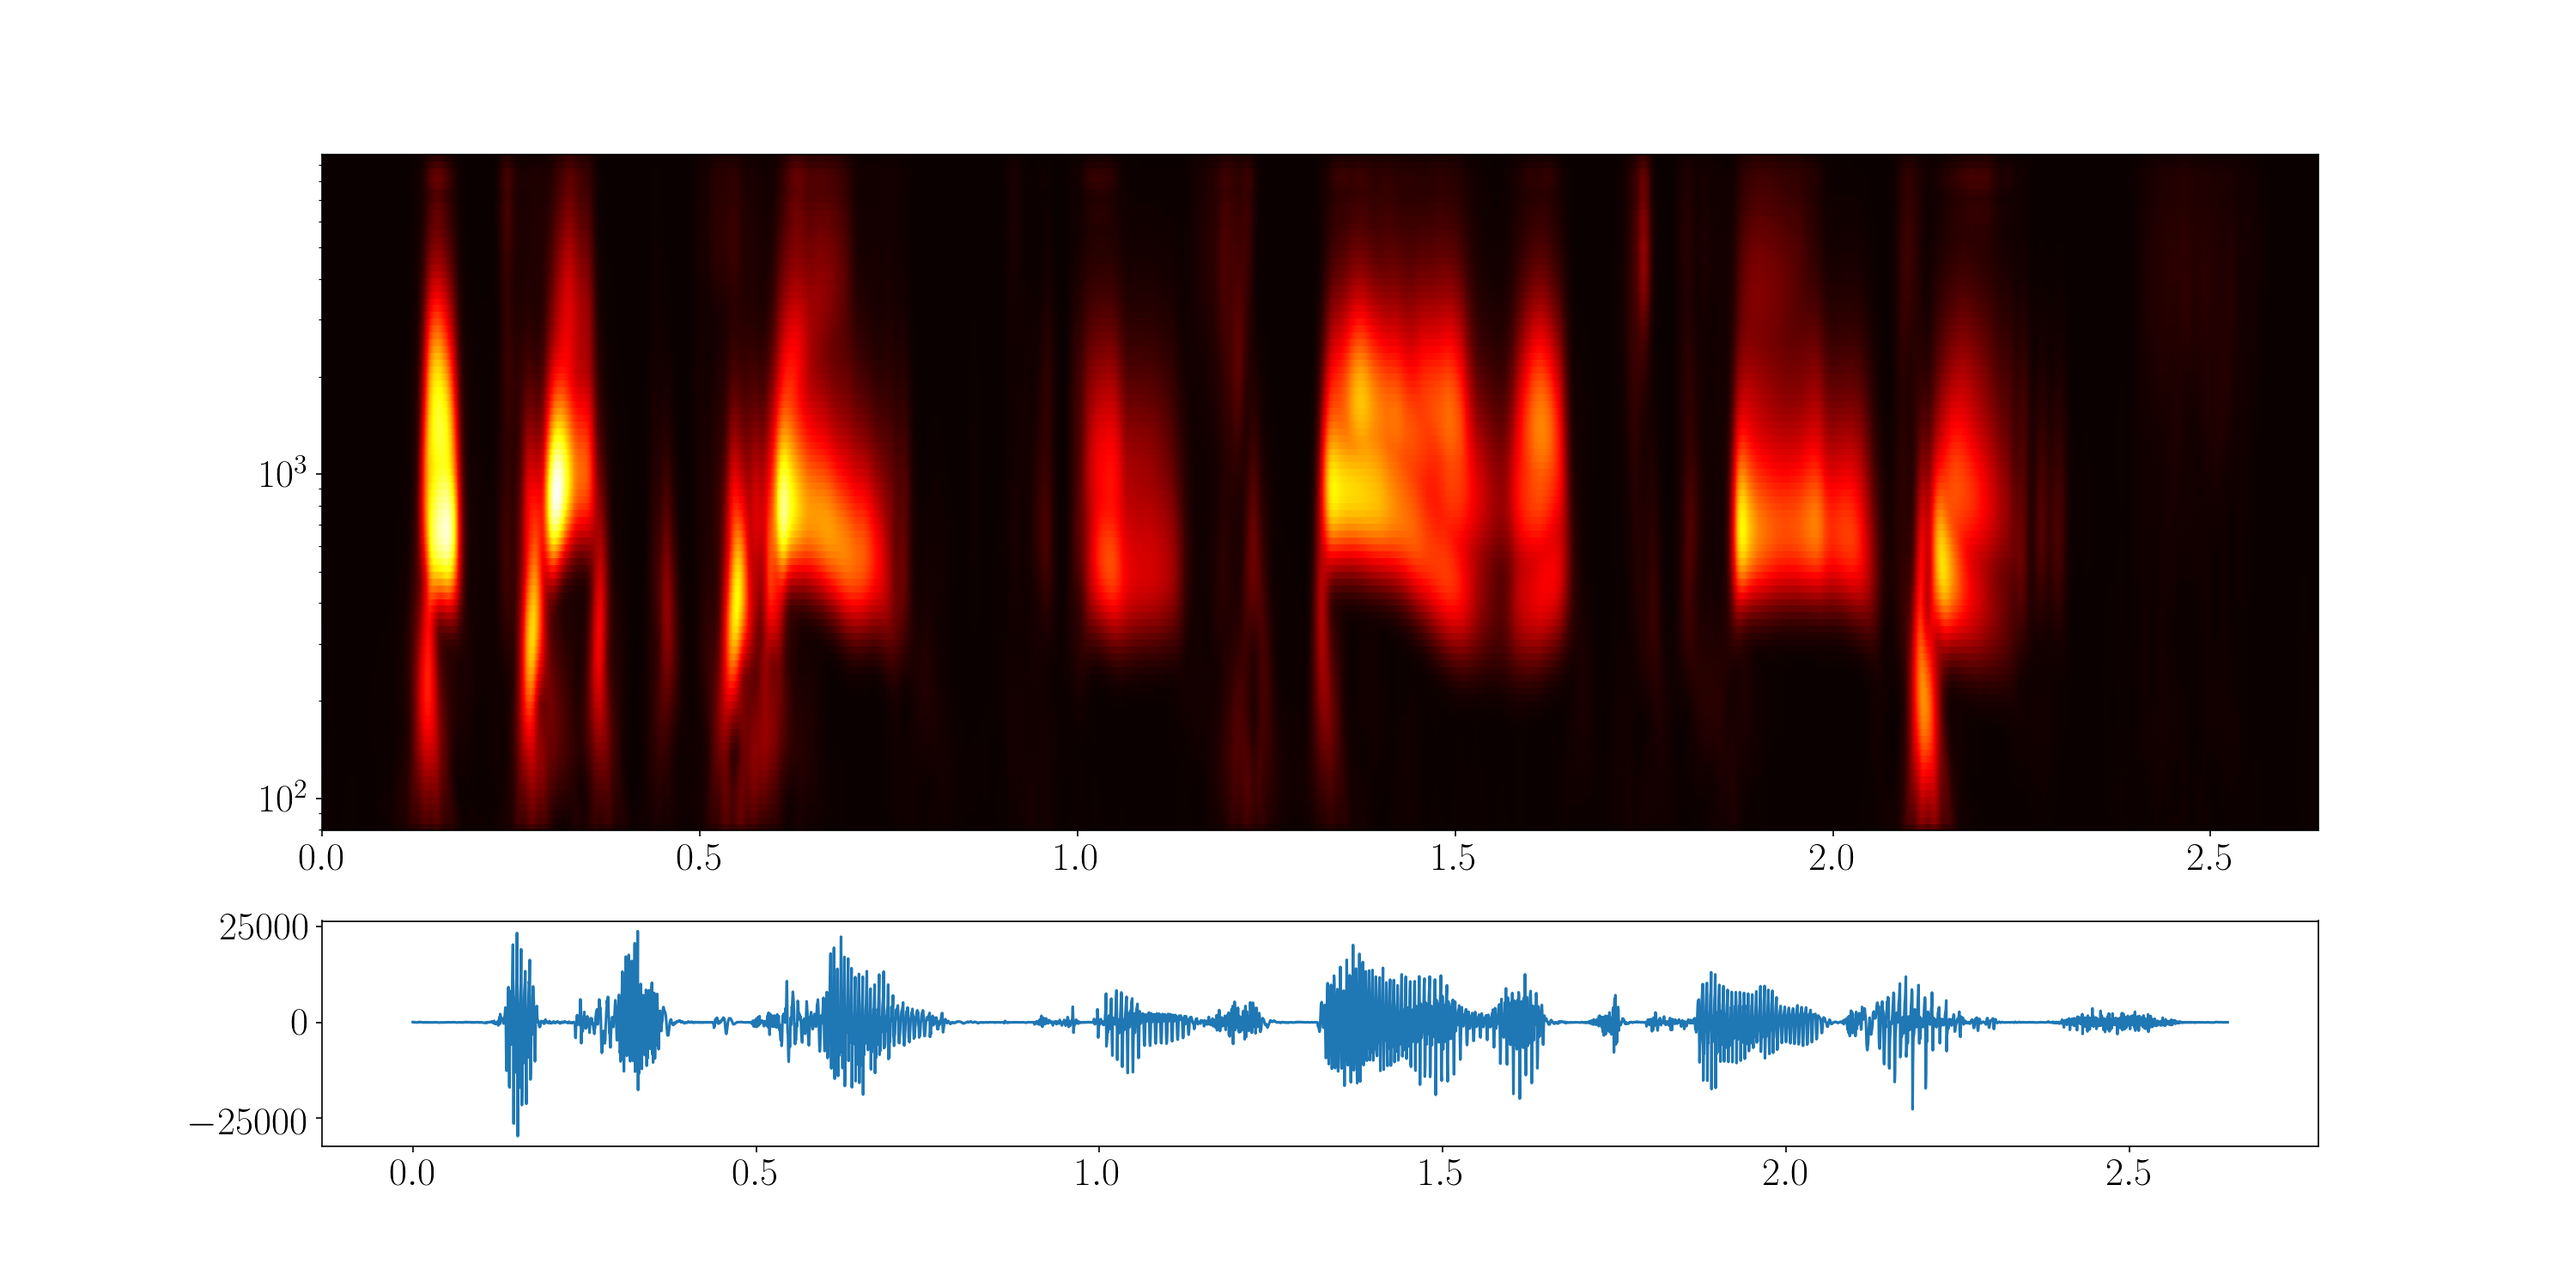
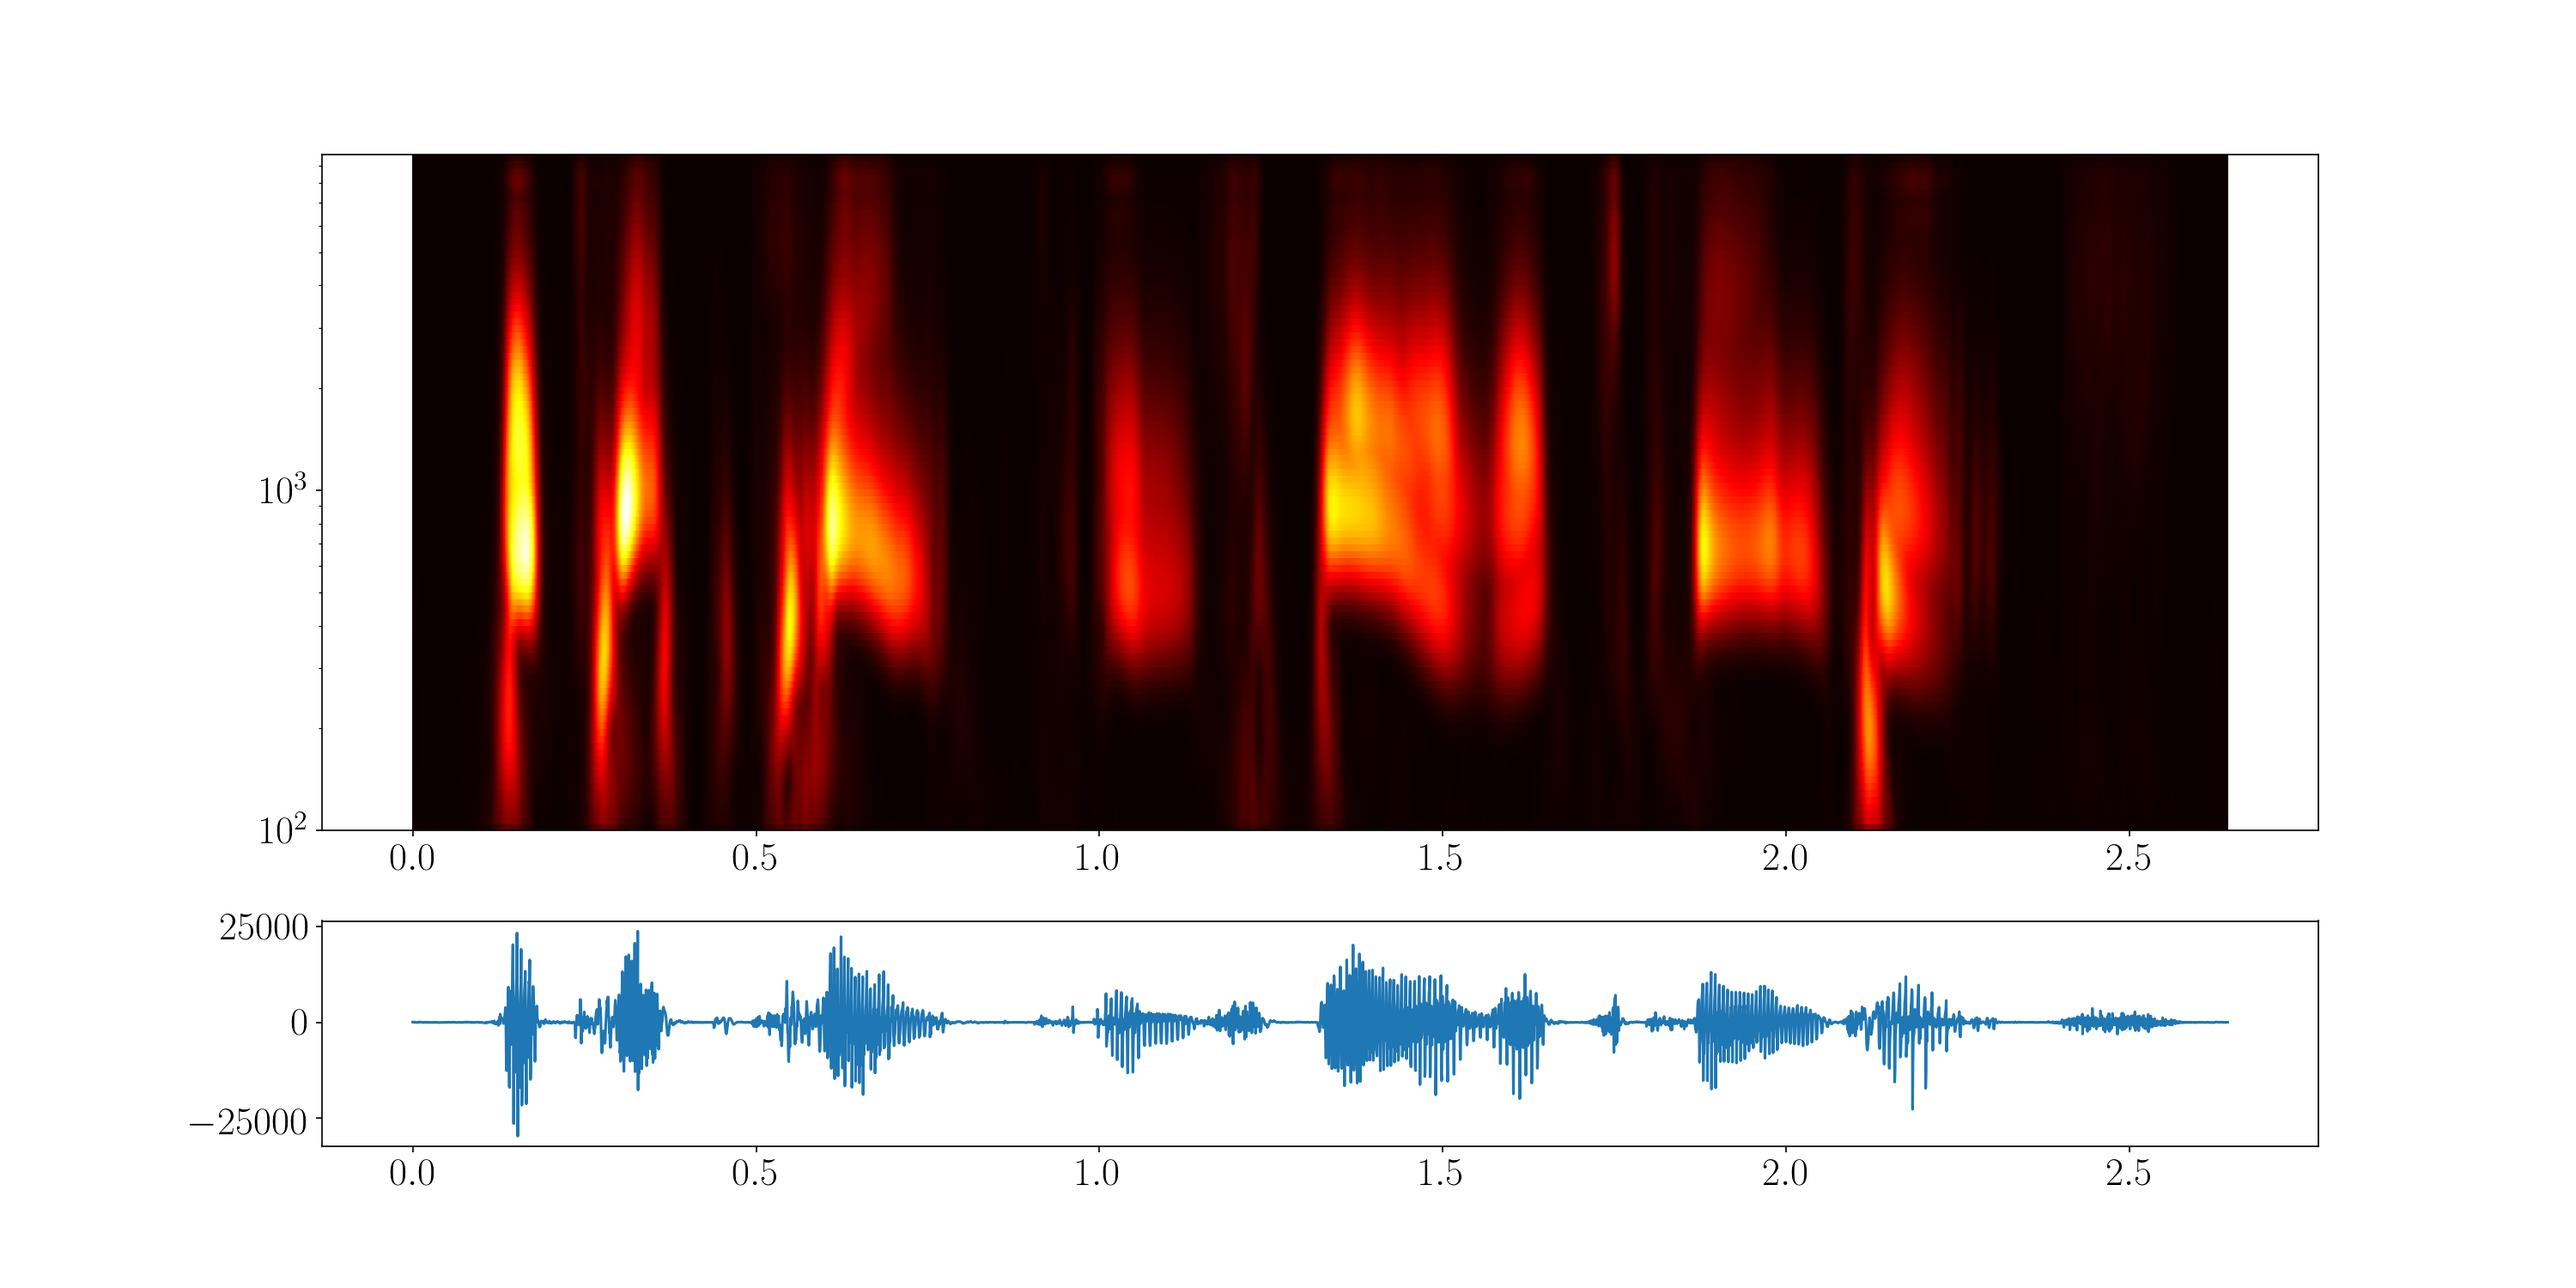
Merged parameter file Better bound specification for log scale

diff --git a/paras.py b/paras.py
@@ -1,8 +1,11 @@
 """
 Parameter file template for make_cwt.py. It is suggested to make a copy and modify the copy instead of this file.
+This parameter file can also be used with make_plot_cwt to do only the plot with a saved .pic file. In this case
+everything above 'input_file_pic' will be ignored, except results_dir and log_scale.
 """
 
 import sys as _sys
+from os.path import join as _jn
 
 # Folder to put the results in (relative or absolute path)
 # Put '.' to put it where the script is.
@@ -10,6 +13,7 @@ results_dir = 'results'
 
 # Name of input file. Must be a wav (I think)
 # Can indicate a full path, like 'this/is/where/Ifind/love.wav'
+# Put '\' instead of '/' when using Windows!
 input_file = 'input/cup.wav'
 
 # If signal is stereo, put 'left' or 'right' to transform one channel or the other.
@@ -25,8 +29,8 @@ start = 0 # 0 is start of signal
 end = -1 # -1 is end of signal
 
 # Freq to consider
-log_scale = False # True for log scale, False for linear one 
-lower_bound = 100. # in Hertz for lin, or exponent for log scale
+log_scale = True # True for log scale, False for linear one 
+lower_bound = 100. # in Hertz for lin, or exponent for log scale.
 upper_bound = 10000. # idem
 base_log = 10 # Base for log scale. Ignored if linear.
 n_freq = 300 # Number of frequencies to consider (-> resolution in freq.)
@@ -45,7 +49,7 @@ downsampling_array = [3, 3]
 # Save numpy array or not (pickle file).
 # Put 'None' if you don't want to save the array, a string for its name otherwise
 # If saved, the vectors of times and frequencies are also saved, as well as the signal.
-# Do this if you want to plot with plot_cwt.py script!
+# Do this if you want to test different plot configuration with make_plot_cwt.py script!
 save_array = 'cup.pic' # None
 
 # Name of output file (stl)
@@ -60,9 +64,33 @@ stl_options = {'scale':0.05,
 
 # Do the plots as well or not
 do_plots_too = True
-paras_file_plots = 'paras_plot.py' # name of paras file for plots
+
+# If do_plots_too is False, the following is ignored.
+
+# Input file (can an absolute or relative path, put '\' when using window!)
+# This is only used with the script 'make_plot_cwt.py'
+input_file_pic = _jn(results_dir, 'cup.pic')
+
+# Figure size
+figure_size = (20, 10)
+
+# colormap to use
+cmap = 'hot'
+
+# log scale for y?
+# ylog = False
+
+# Show plot?
+# Not working directly with make_cwt.py, but works with make_plot_cwt.py
+show_plot = True
+
+# Output file name
+output_file = 'cup.png'
+
+# dpi
+dpi = 150
 
 
 #### DO NOT MODIFY THIS !!!! #####
 paras = {k:v for k,v in vars().items() if k[:1]!='_' and k!='version' and k!='Paras' and not k in [key for key in locals().keys()
-           if key in locals().keys() and isinstance(locals()[key], type(_sys)) and not key.startswith('__')]}
+		   if key in locals().keys() and isinstance(locals()[key], type(_sys)) and not key.startswith('__')]}

diff --git a/make_cwt.py b/make_cwt.py
@@ -1,22 +1,33 @@
 #!/usr/bin/env python3
 # -*- coding: utf-8 -*-
 
+"""
+Use this file like this:
+./make_cwt.py my_paras.py
+or this:
+./make_cwt.py
+to produce a cwt of a signal. Parameters are read from the corresponding my_paras.py file
+or the default paras.py file in the second case.
+"""
+
+from pylab import *
+
 import os
 import sys
 from os.path import join as jn
 import pywt
 from scipy.io.wavfile import read
 
-from numpy import *
 from scipy import signal, ndimage
 from stl_tools import numpy2stl
 import pickle
-from pylab import *
 import matplotlib.image as mpimg
+from math import log # because numpy log has no base argument...
 
-from plot_cwt import do_plots, read_paras
+from make_plot_cwt import do_plots, read_paras
 
 def prepare_signal(paras):
+	print (paras['input_file'])
 	a = read(paras['input_file'])
 	# Initial sampling frequency
 	f_s_i = a[0]
@@ -66,12 +77,15 @@ def do_cwt(paras, b, fs):
 	if paras['log_scale']:
 		space_gen = logspace
 		kwarg = {'base':paras['base_log']}
+		lb = log(paras['lower_bound'], paras['base_log'])
+		ub = log(paras['upper_bound'], paras['base_log'])
 	else:
 		space_gen = linspace
 		kwarg = {}
+		lb, ub = paras['lower_bound'], paras['upper_bound']
 
 	# Choose frequencies
-	freqs = array(space_gen(paras['lower_bound'], paras['upper_bound'], paras['n_freq'], **kwarg))
+	freqs = array(space_gen(lb, ub, paras['n_freq'], **kwarg))
 	
 	# Transform them in scales
 	scales = fs/freqs
@@ -126,8 +140,8 @@ if __name__=='__main__':
 
 	# Do plots (or not)
 	if paras['do_plots_too']:
-		paras_plots = read_paras(paras_file=paras['paras_file_plots'])
-		do_plots(paras_plots, b, zz, times, freqs)
+		#paras_plots = read_paras(paras_file=paras['paras_file_plots'])
+		do_plots(paras, b, zz, times, freqs)
 
-		print ("I can't show the image in this script for some reason.")
-		print ("Fire up ./plot_cwt.py if you want to see an interactive version, or go and see the .png file directly.")
+		print ("Sometimes I can't show the image in this script for some reason.")
+		print ("Fire up ./make_plot_cwt.py if you want to see an interactive version, or go and see the .png file directly.")

diff --git a/make_plot_cwt.py b/make_plot_cwt.py
@@ -1,6 +1,16 @@
 #!/usr/bin/env python3
 # -*- coding: utf-8 -*-
 
+"""
+Use this file like this:
+./make_plot_cwt.py my_paras.py
+or this:
+./make_plot_cwt.py
+to produce the plot of the cwt of a signal, stored in a pickle file.
+Parameters are read from the corresponding my_paras.py file
+or the default paras.py file in the second case.
+"""
+
 import os
 import sys
 from os.path import join as jn
@@ -29,7 +39,7 @@ def read_paras(paras_file=None, post_process=None):
 	return paras
 
 def get_data(paras):
-	with open(paras['input_file'], 'rb') as f:
+	with open(paras['input_file_pic'], 'rb') as f:
 			b, zz, times, freqs = pickle.load(f)
 
 	return b, zz, times, freqs
@@ -42,21 +52,21 @@ def do_plots(paras, b, zz, times, freqs):
 	ax2 = subplot(gs[1], sharex=ax1)
 
 	ax1.pcolormesh(times, freqs, zz, cmap=paras['cmap'])
-	if paras['ylog']:
+	if paras['log_scale']:
 		ax1.set_yscale('log')
 
 	ax2.plot(times, b)
 
-	if paras['show_plot']:
-		show()	
-
 	print ('Saving .png file as:', jn(paras['results_dir'], paras['output_file']))
 	savefig(jn(paras['results_dir'], paras['output_file']), dpi=paras['dpi'])
+
+	if paras['show_plot']:
+		show()	
 
 if __name__=='__main__':
 	if len(sys.argv)<2:
 		print("You did not specify a paras file, I try to use: paras_plot.py")
-		paras_file_name = 'paras_plot.py'
+		paras_file_name = 'paras.py'
 	else:
 		paras_file_name = sys.argv[1]
 

diff --git a/README.md b/README.md
@@ -3,23 +3,22 @@
 ![Transformed Signal](cup_image.png "Transformed Signal")
 
 ## Requirements
-You need numpy, scipy, matplotlib, stl_tools, and PyWavelets. You can install them like this:
+You need numpy, scipy, matplotlib, stl_tools, pickle, and PyWavelets. You can install them like this:
 
 ```
-sudo pip3 install scipy numpy matplotlib stl_tools PyWavelets
+sudo pip3 install scipy numpy matplotlib pickle stl_tools PyWavelets
 ```
 
 The scripts are designed to be used on linux system with python 3, but you can change that with minimal effort if needed (or open an issue).
 
 ## Usage
+
 The script `make_cwt.py` loads the signal and computes the transform. It can be used like this:
 ```
 python3 make_cwt.py paras.py
 ```
-You need to edit `paras.py` to give the path to the initial signal and set various options. You can directly use the script without argument (`python3 make_cwt.py`), in which case it will use the file `paras.py` by default.
-
-The script can save the results in a pickle of numpy arrays for later use, as well as an .stl file. It can also produce a heatmap plot. This plot can also be later generated using the other script:
+You need to edit `paras.py` to give the path to the initial signal and set various options. You can directly use the script without argument (`python3 make_cwt.py`), in which case it will always use the file `paras.py` by default. The script can save the results in a pickle of numpy arrays for later use, as well as an .stl file. It can also produce a heatmap plot. Read the `paras.py` for more information. This plot can also be later generated using the other script:
 ```
-python3 plot_cwt.py paras_plot.py
+python3 plot_cwt.py paras.py
 ```
-You can edit `paras_plot.py` to set paths etc. Once again, you can omit the argument and the script will look for `paras_plot.py`. 
+Once again, you can omit the argument and the script will look for `paras.py`. 
